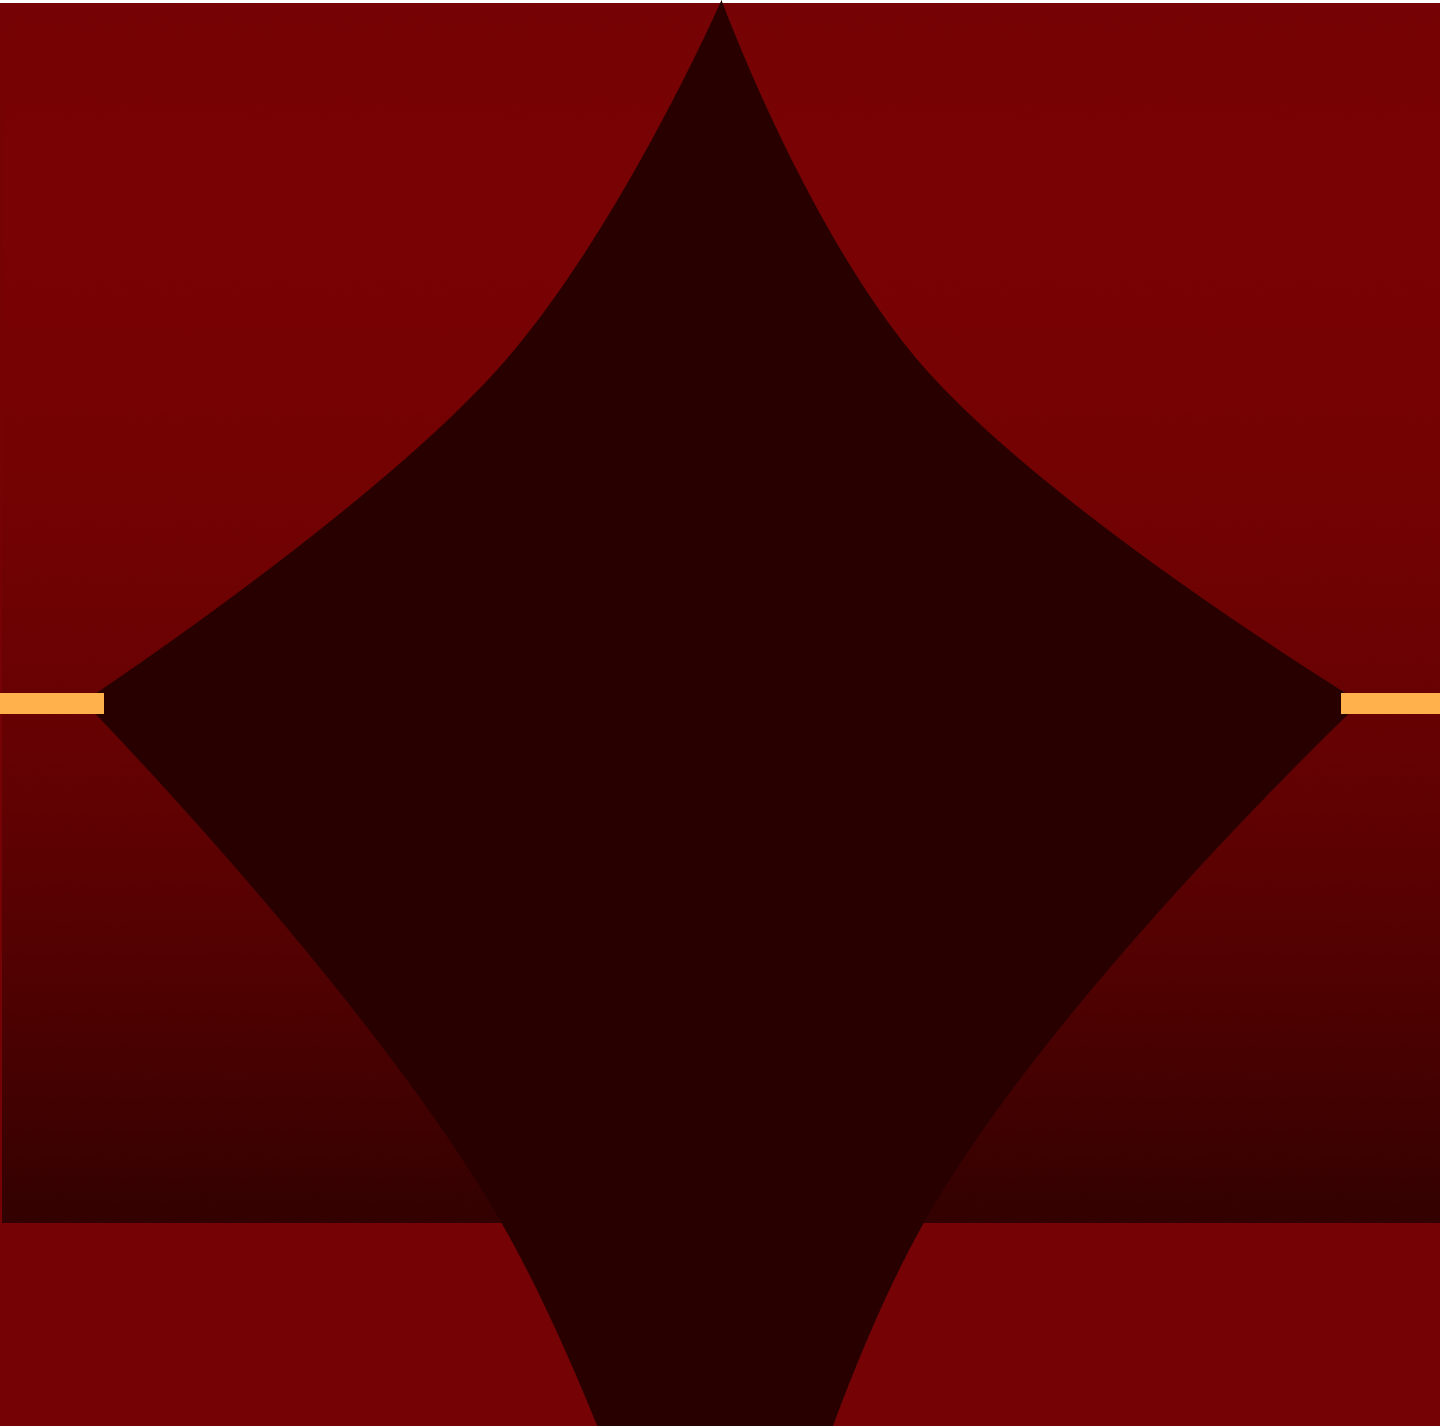
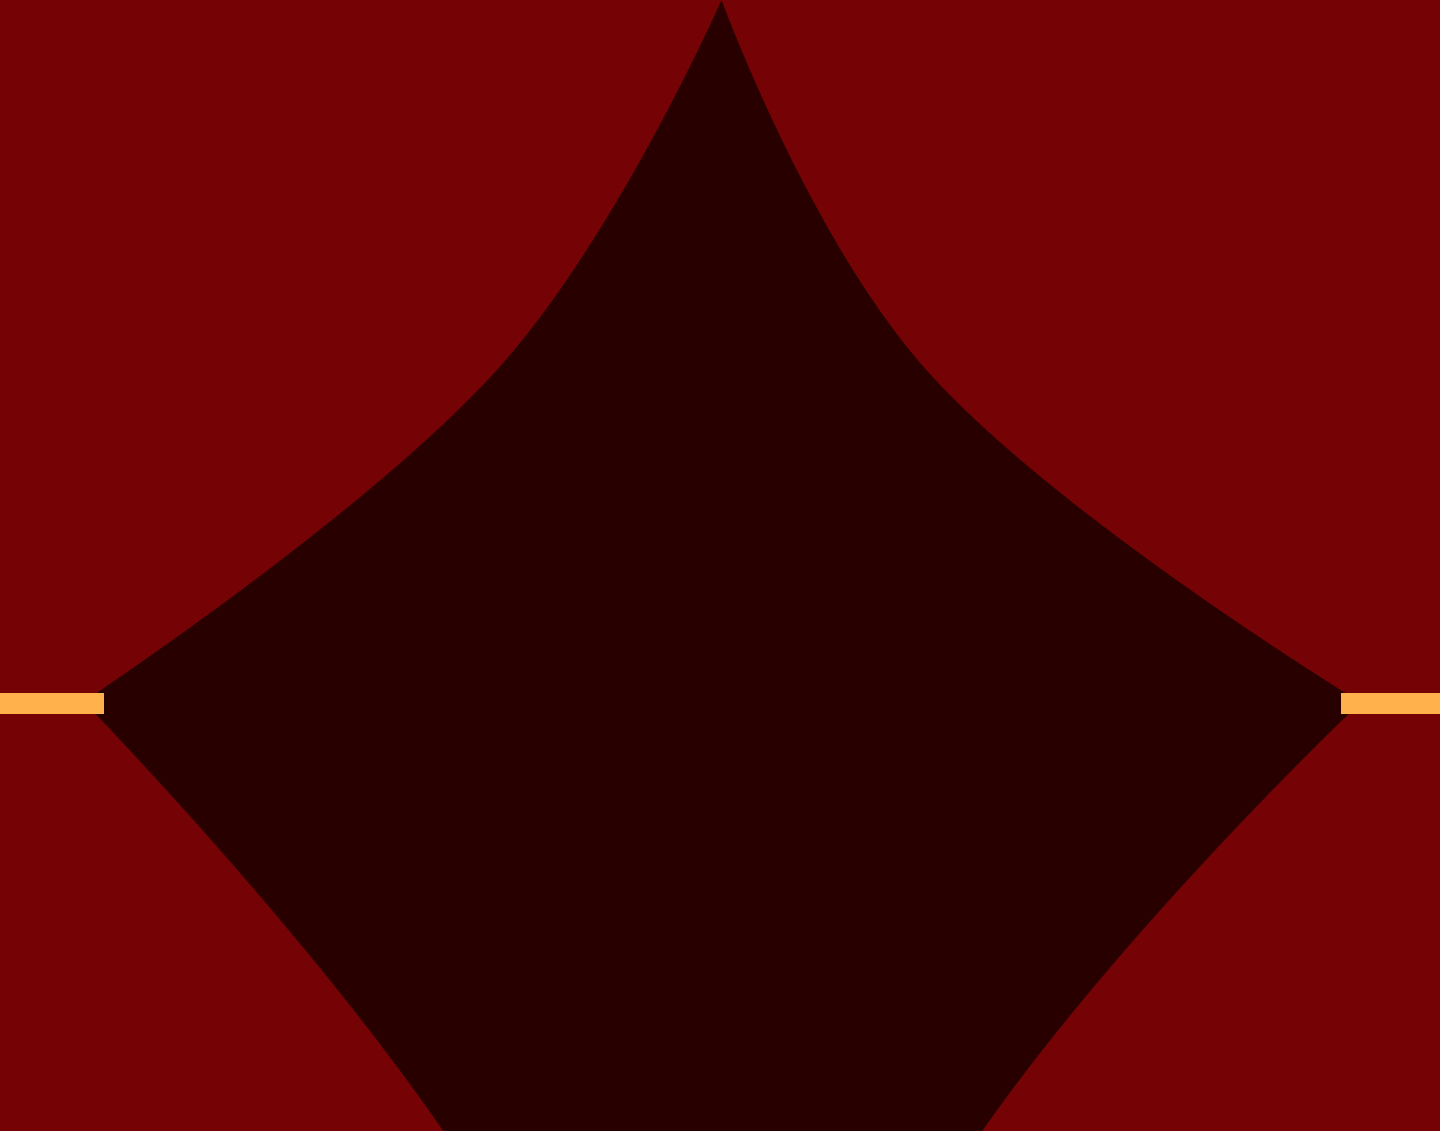
faq info fix + table zoom out

Changed region(s): [[0.0, 0.0, 0.5312, 1.0], [0.5625, 0.1547, 1.0, 1.0], [0.5312, 0.0928, 0.5625, 0.1547]]

diff --git a/my-turborepo/apps/event-website/src/components/faq/index.tsx b/my-turborepo/apps/event-website/src/components/faq/index.tsx
@@ -66,16 +66,16 @@ function popupSize() {
 }
 
 const SPOTS = [
-  { x: 10, y: 34 },
-  { x: 30, y: 34 },
+  { x: 18, y: 34 },
+  { x: 34, y: 34 },
   { x: 50, y: 34 },
-  { x: 70, y: 34 },
-  { x: 90, y: 34 },
-  { x: 10, y: 64 },
-  { x: 30, y: 64 },
+  { x: 66, y: 34 },
+  { x: 82, y: 34 },
+  { x: 18, y: 64 },
+  { x: 34, y: 64 },
   { x: 50, y: 64 },
-  { x: 70, y: 64 },
-  { x: 90, y: 64 },
+  { x: 66, y: 64 },
+  { x: 82, y: 64 },
 ];
 
 type FaqItem = { question: string; answer: string };
@@ -89,10 +89,10 @@ const ITEMS: FaqItem[] = [
   {
     question: "When & where is the event?",
     answer:
-      "November 9-10th, 2024 at the MSC 2300 Bethancourt Ballroom! A complete schedule will be available at tamudatathon.com/schedule at a later date. Parking will be free at a later disclosed location.",
+      "November 7-8th, 2026 at the MSC 2300 Bethancourt Ballroom! A complete schedule will be available at tamudatathon.com/schedule at a later date. Parking will be free at a later disclosed location.",
   },
   {
-    question: "How much do I need to know?",
+    question: "How much to know?",
     answer:
       "Not much! We have intro workshops and mentors for beginners, plus tougher challenges if you already have experience.",
   },
@@ -122,7 +122,7 @@ const ITEMS: FaqItem[] = [
       "Teams can have up to 4 people. We encourage working with a team, it's more fun! You do not need to form a team before attending the event. There will be plenty of time to find a team after opening ceremonies.",
   },
   {
-    question: "Are travel reimbursements available?",
+    question: "Travel reimbursements?",
     answer: `Limited travel reimbursements are available for attendees coming from outside the area. Apply here: ${TRAVEL_FORM}`,
   },
   {
@@ -482,7 +482,7 @@ export default function FAQ() {
               src={CURTAINS}
               alt=""
               width={1440}
-              height={1426}
+              height={1131}
               draggable={false}
               className={`${ART} absolute left-0 top-1/2 w-full max-w-none`}
             />
@@ -512,8 +512,8 @@ export default function FAQ() {
             </h2>
 
           {/* Room above the table for the bear to rise into. */}
-          <div className="relative mt-4 w-full pt-[27%] md:mt-20">
-            <div className="pointer-events-none absolute left-[24%] top-0 z-[1] w-[36%] -translate-x-1/2 translate-y-[64%] transition-transform duration-700 ease-out group-data-[show]/faq:translate-y-0 motion-reduce:transition-none [@media(scripting:none)]:translate-y-0">
+          <div className="relative mt-4 w-full pt-[26%] md:mt-12">
+            <div className="pointer-events-none absolute left-[25%] top-[8%] z-[1] w-[28%] -translate-x-1/2 translate-y-[64%] transition-transform duration-700 ease-out group-data-[show]/faq:translate-y-0 motion-reduce:transition-none [@media(scripting:none)]:translate-y-0">
               <Image
                 src={BEAR}
                 alt=""
@@ -524,7 +524,7 @@ export default function FAQ() {
               />
             </div>
 
-            <div className="pointer-events-none absolute left-[48%] top-[6%] z-[5] w-[22%] origin-bottom-left scale-90 opacity-0 transition delay-[1100ms] duration-500 ease-out group-data-[show]/faq:scale-100 group-data-[show]/faq:opacity-100 motion-reduce:transition-none [@media(scripting:none)]:scale-100 [@media(scripting:none)]:opacity-100">
+            <div className="pointer-events-none absolute left-[46%] top-[10%] z-[5] w-[17%] origin-bottom-left scale-90 opacity-0 transition delay-[1100ms] duration-500 ease-out group-data-[show]/faq:scale-100 group-data-[show]/faq:opacity-100 motion-reduce:transition-none [@media(scripting:none)]:scale-100 [@media(scripting:none)]:opacity-100">
               <Image
                 src={BUBBLE}
                 alt="Have a question? Or do you want to play a game?"
@@ -547,12 +547,12 @@ export default function FAQ() {
               <Image
                 src={TABLE}
                 alt=""
-                width={1440}
-                height={550}
+                width={2140}
+                height={896}
                 draggable={false}
                 className={`${ART} relative z-[1] block`}
               />
-              <div className="absolute left-[11%] top-[4%] z-[2] w-[10.2%]">
+              <div className="absolute left-[14%] top-[8%] z-[2] w-[8%]">
                 <Image
                   src={STACK}
                   alt=""
@@ -562,7 +562,7 @@ export default function FAQ() {
                   className={`${ART} transition-transform duration-500 ${dealt ? "scale-[0.94]" : ""}`}
                 />
               </div>
-              <div className="pointer-events-none absolute left-[9%] top-[-32%] z-[4] w-[38%] opacity-0 transition-opacity delay-700 duration-500 ease-out group-data-[show]/faq:opacity-100 motion-reduce:transition-none [@media(scripting:none)]:opacity-100">
+              <div className="pointer-events-none absolute left-[13%] top-[-28%] z-[4] w-[30%] opacity-0 transition-opacity delay-700 duration-500 ease-out group-data-[show]/faq:opacity-100 motion-reduce:transition-none [@media(scripting:none)]:opacity-100">
                 <Image
                   src={HANDS}
                   alt=""
@@ -573,7 +573,7 @@ export default function FAQ() {
                 />
               </div>
 
-              <div className="absolute left-1/2 top-[0%] z-20 w-[11%] -translate-x-1/2 sm:w-[9%]">
+              <div className="absolute left-1/2 top-[-4%] z-20 w-[8.5%] -translate-x-1/2 sm:w-[7%]">
                 <button
                   type="button"
                   onClick={deal}
@@ -602,7 +602,7 @@ export default function FAQ() {
               </div>
 
               {dealt && landed && openIndex === null ? (
-                <p className="font-righteous pointer-events-none absolute left-1/2 top-[80%] z-[5] w-max max-w-[90vw] -translate-x-1/2 text-center text-[clamp(13px,1.5vw,22px)] leading-tight tracking-[0.03em] text-[#FDFBED] [text-shadow:0_2px_4px_rgb(0_0_0/0.55)]">
+                <p className="font-righteous pointer-events-none absolute left-1/2 top-[78%] z-[5] w-max max-w-[90vw] -translate-x-1/2 text-center text-[clamp(11px,1.2vw,17px)] leading-tight tracking-[0.03em] text-[#FDFBED] [text-shadow:0_2px_4px_rgb(0_0_0/0.55)]">
                   Click a card to flip it!
                 </p>
               ) : null}
@@ -727,7 +727,7 @@ export default function FAQ() {
                   return (
                     <div
                       key={`q-${item.question}`}
-                      className="pointer-events-none absolute z-[4] aspect-square w-[13.5%] -translate-x-1/2 -translate-y-1/2"
+                      className="pointer-events-none absolute z-[4] aspect-square w-[10.5%] -translate-x-1/2 -translate-y-1/2"
                       style={{
                         left: `${spot.x}%`,
                         top: `${spot.y}%`,
@@ -736,13 +736,13 @@ export default function FAQ() {
                       }}
                     >
                       <p
-                        className="font-righteous absolute bottom-[100%] left-1/2 mb-[0.35em] w-[170%] -translate-x-1/2 text-center leading-[1.15] tracking-[0.02em] text-[#FDFBED] [text-shadow:0_1px_3px_rgb(0_0_0/0.75)]"
+                        className="font-righteous absolute bottom-[100%] left-1/2 mb-[0.6em] w-[160%] -translate-x-1/2 text-center leading-[1.15] tracking-[0.02em] text-[#FDFBED] [text-shadow:0_1px_3px_rgb(0_0_0/0.75)]"
                         style={{
                           fontSize:
-                            "clamp(9px, calc(9px + (100vw - 575px) * 0.0128), 18px)",
+                            "clamp(8px, calc(8px + (100vw - 575px) * 0.0115), 16px)",
                         }}
                       >
-                        <span className="line-clamp-3">{item.question}</span>
+                        <span className="line-clamp-2">{item.question}</span>
                       </p>
                     </div>
                   );
@@ -779,7 +779,7 @@ export default function FAQ() {
                         event.preventDefault();
                         openCard(index);
                       }}
-                      className="group/card absolute z-[3] aspect-square w-[16%] -translate-x-1/2 -translate-y-1/2 cursor-pointer border-0 bg-transparent p-0 focus-visible:outline focus-visible:outline-[3px] focus-visible:outline-offset-2 focus-visible:outline-[#FDFBED] sm:w-[13.5%]"
+                      className="group/card absolute z-[3] aspect-square w-[12.5%] -translate-x-1/2 -translate-y-1/2 cursor-pointer border-0 bg-transparent p-0 focus-visible:outline focus-visible:outline-[3px] focus-visible:outline-offset-2 focus-visible:outline-[#FDFBED] sm:w-[10.5%]"
                       style={{
                         left: `${x}%`,
                         top: `${y}%`,
